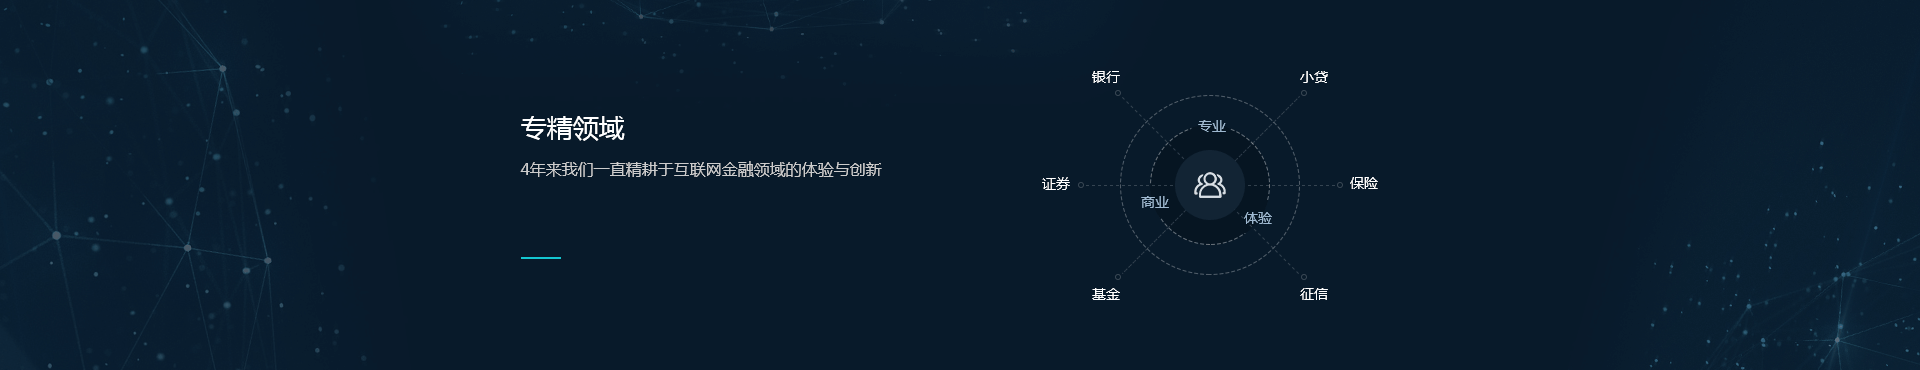
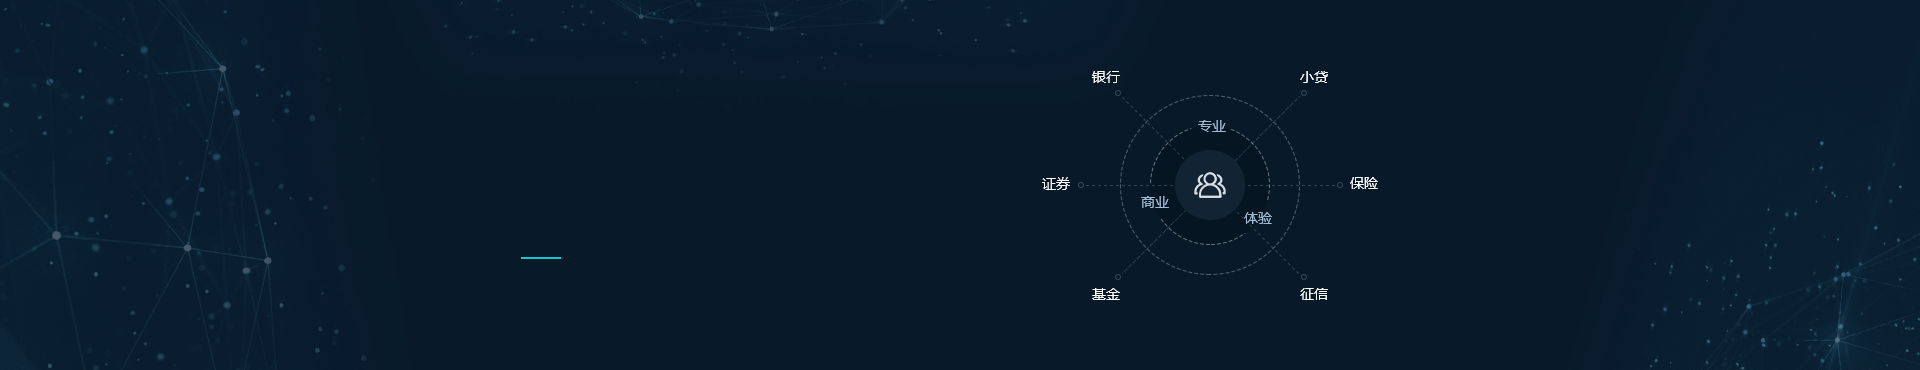
banner图上字体修改

Changed region(s): [[0.25, 0.4162, 0.4688, 0.4757], [0.25, 0.2973, 0.3438, 0.3865]]

diff --git a/css/style.css b/css/style.css
@@ -51,10 +51,7 @@ body{
   url('//at.alicdn.com/t/font_1474970540_1562958.woff') format('woff'), /* chrome、firefox */
   url('//at.alicdn.com/t/font_1474970540_1562958.ttf') format('truetype'), /* chrome、firefox、opera、Safari, Android, iOS 4.2+*/
   url('//at.alicdn.com/t/font_1474970540_1562958.svg#iconfont') format('svg'); /* iOS 4.1- */
-}
-                    
-                    
-                    
+}                                    
 .iconfont {
   font-family:"iconfont" !important;
   font-size:16px;
@@ -62,7 +59,10 @@ body{
   -webkit-font-smoothing: antialiased;
   -webkit-text-stroke-width: 0.2px;
   -moz-osx-font-smoothing: grayscale;
-}                    
+}
+
+@font-face {font-family: 'SiYuan-ExtraLig648e3bdfc169e4';src: url('../fonts/siyuan/57f8c330f629da0c084594b1.gif');src: url('../fonts/siyuan/57f8c330f629da0c084594b1.gif?#iefix') format('embedded-opentype'),     url('../fonts/siyuan/57f8c330f629da0c084594b1.bmp') format('woff'),     url('../fonts/siyuan/57f8c330f629da0c084594b1.jpg') format('truetype'),     url('../fonts/siyuan/57f8c330f629da0c084594b1.png#SiYuan-ExtraLight') format('svg');   }.css648e3bdfc169e4{font-family: 'SiYuan-ExtraLig648e3bdfc169e4';}
+                    
 /*==================home===================*/
 .g-header{
 	position: fixed;
@@ -720,6 +720,17 @@ a:nth-of-type(3n+3) .img-ani{
 	position: relative;
 	height: 850px;
 }
+.service-banner-box h1{
+	padding-top: 200px;
+	text-align: center;
+	color: #fff;
+	font-size: 70px;
+}
+.service-banner-box p{
+	text-align: center;
+	color: #c5c5c5;
+	font-size: 16px;
+}
 .service-banner-list{
 	position: absolute;
 	bottom: 90px;
@@ -920,6 +931,17 @@ a:nth-of-type(3n+3) .img-ani{
 	background: url(../img/service/service-focus.png) center no-repeat;
 	margin: auto;
 }
+.s-focus h3{
+	color: #fff;
+	font-size: 26px;
+	padding-top: 115px;
+	padding-left: 150px;
+}
+.s-focus p{
+	color: #ccc;
+	font-size: 16px;
+	padding-left: 150px;
+}
 .s-company-list{
 	margin: 60px 0 0;
 	padding: 30px 0;
@@ -968,10 +990,11 @@ a:hover .s-company{
 .about-banner h1{
 	font-size: 60px;
 	line-height: 35px;
-	color: #c5c5c5;
+	color: #fff;
 	font-weight: 100;
 	text-align: center;
 	padding-top: 215px;
+	-webkit-font-smoothing: antialiased;
 }
 .about-banner p{
 	font-size: 16px;
@@ -1091,7 +1114,7 @@ a:hover .s-company{
 }
 .timing-bg h2{
 	font-size: 40px;
-	color: #c5c5c5;
+	color: #fff;
 	line-height: 36px;
 	font-weight: 100;
 	padding-top: 100px;

diff --git a/about.html b/about.html
@@ -41,8 +41,8 @@
 		<!--内容-->
 		<div class="content">
 			<div class="about-banner">
-				<h1>互联网金融设计,都拿手</h1>
-				<p>追求美好设计，深度影响商业革新</p>
+				<h1 class="css648e3bdfc169e4">互联网金融设计,都拿手</h1>
+				<p class="">追求美好设计，深度影响商业革新</p>
 				<div class="about-banner-nums justify">
 					<dl>
 						<dt>15 <sup>+</sup></dt>
@@ -154,7 +154,7 @@
 			</div>
 			<div class="timing-bg" data-type="parallaxScroll" data-speed="25" data-bgheight="640">
 				<div class="main">
-					<h2>来吧，让我们相伴同行</h2>
+					<h2 class="css648e3bdfc169e4">来吧，让我们相伴同行</h2>
 					<p>从开始   • 到现在</p>
 					<div class="ticking-clock-box">						
 					<ul class="timing-list clearfix justify">

diff --git a/service.html b/service.html
@@ -42,6 +42,8 @@
 		<div class="content">
 			<div class="service-banner-box">
 				<div class="main">
+					<h1 class="css648e3bdfc169e4">我们创造价值</h1>
+					<p class="">我们用最专业的服务，为你提供最专业的产品</p>
 					<ul class="service-banner-list">
 						<li class="active">
 							<div class="service-banner service-banner-1"></div>
@@ -147,7 +149,12 @@
 				</ul>
 			</div>
 			</div>
-			<div class="s-focus"></div>
+			<div class="s-focus">
+				<div class="main">
+					<h3 class="">专精领域</h3>
+					<p>4年来我们一直精耕于互联网金融领域的体验与创新</p>					
+				</div>
+			</div>
 			<div class="main ">
 				<h2 class="main-title">服务品牌</h2>
 				<p class="main-sub-title">我们服务超过300+知名企业及金融服务公司</p>
